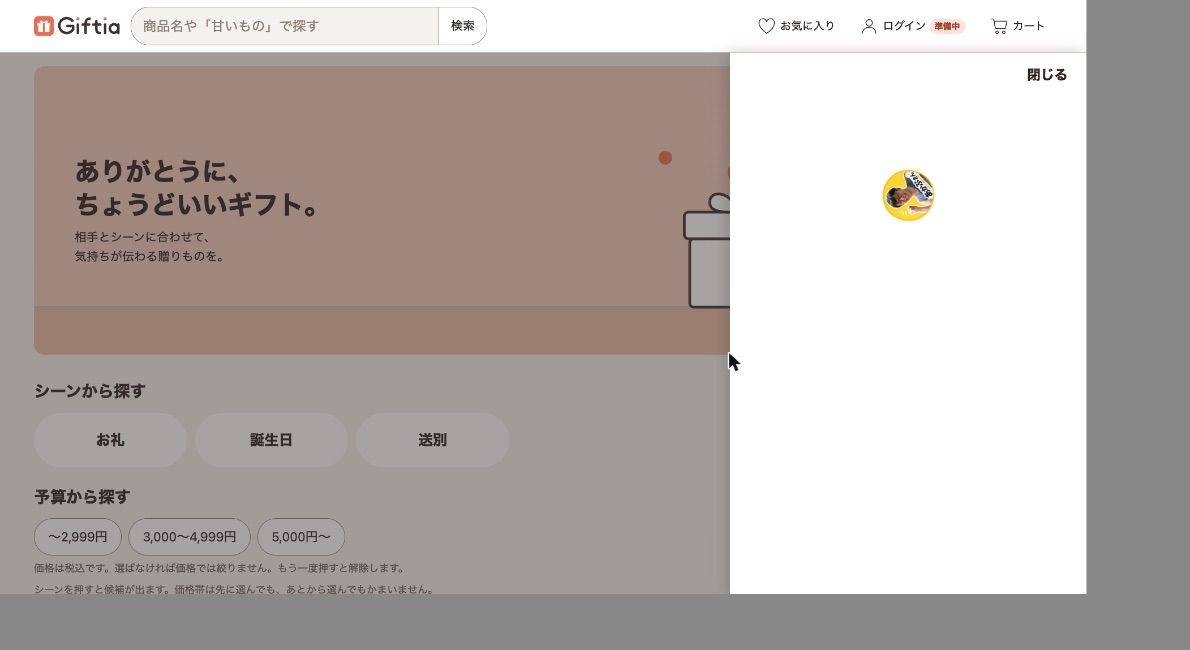
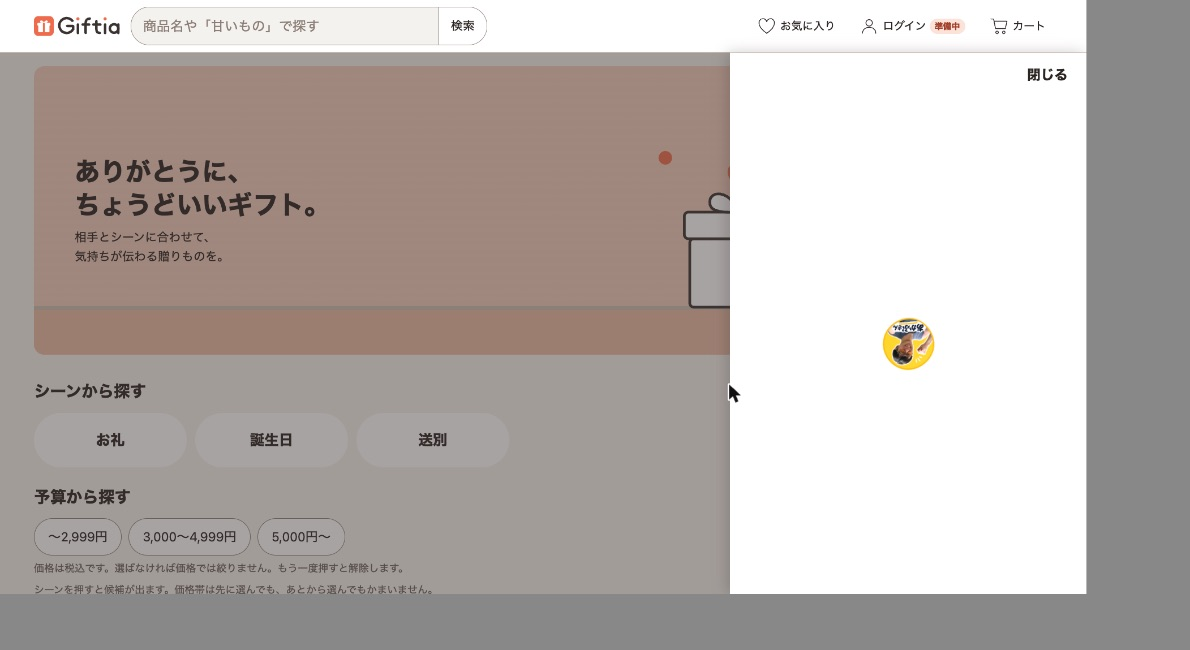
[画面] 右から出るパネルの読み込み中を、中身の欄の縦の真ん中にする（Refs #687）

Changed region(s): [[0.7151, 0.4923, 0.8084, 0.5846], [0.7151, 0.2462, 0.8084, 0.3385], [0.5908, 0.5538, 0.6218, 0.6154]]

diff --git a/frontend/src/components/results.module.css b/frontend/src/components/results.module.css
@@ -28,6 +28,10 @@
 .detpad { padding: 14px; margin: 0; }
 /* #687 詳細の読み込み中: あかぷさんを中身の欄の縦横の真ん中に置く。縦は欄に高さが無いため最小 240px を付ける */
 .detloading { display: flex; align-items: center; justify-content: center; min-height: 240px; box-sizing: border-box; }
+/* #687 右から出るパネルは全高なので、読み込み中は中身の欄の残りの高さいっぱいに広げて真ん中に置く（読み込み後は中身の高さに戻る。パネルの高さは変わらない） */
+.side .sheetscroll { display: flex; flex-direction: column; }
+.side .sheetscroll > * { flex-shrink: 0; }
+.side .detloading { flex: 1 0 auto; }
 .detfoot { position: sticky; bottom: 0; display: flex; flex-wrap: wrap; align-items: center; justify-content: space-between; gap: 12px; padding: 10px 14px; border-top: 1px solid var(--line); background: var(--paper); }
 .footpick { flex: 1 0 100%; }
 .footprice { font-weight: 700; }
